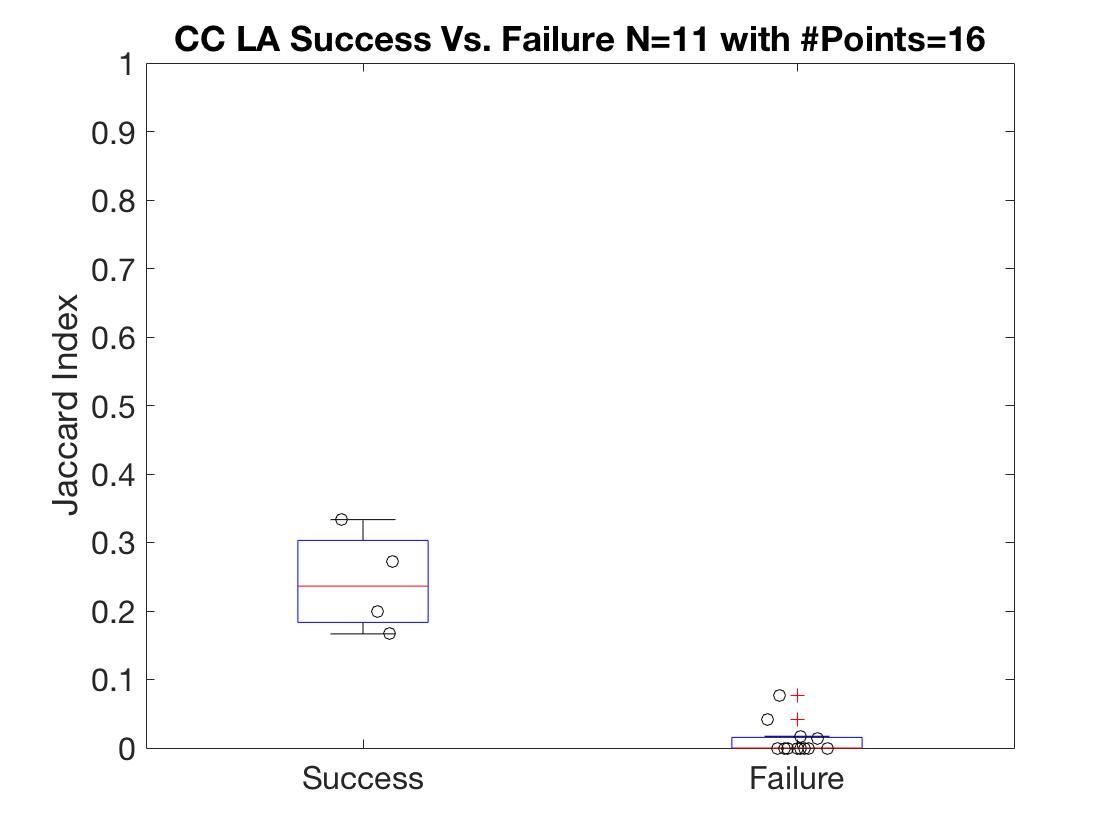
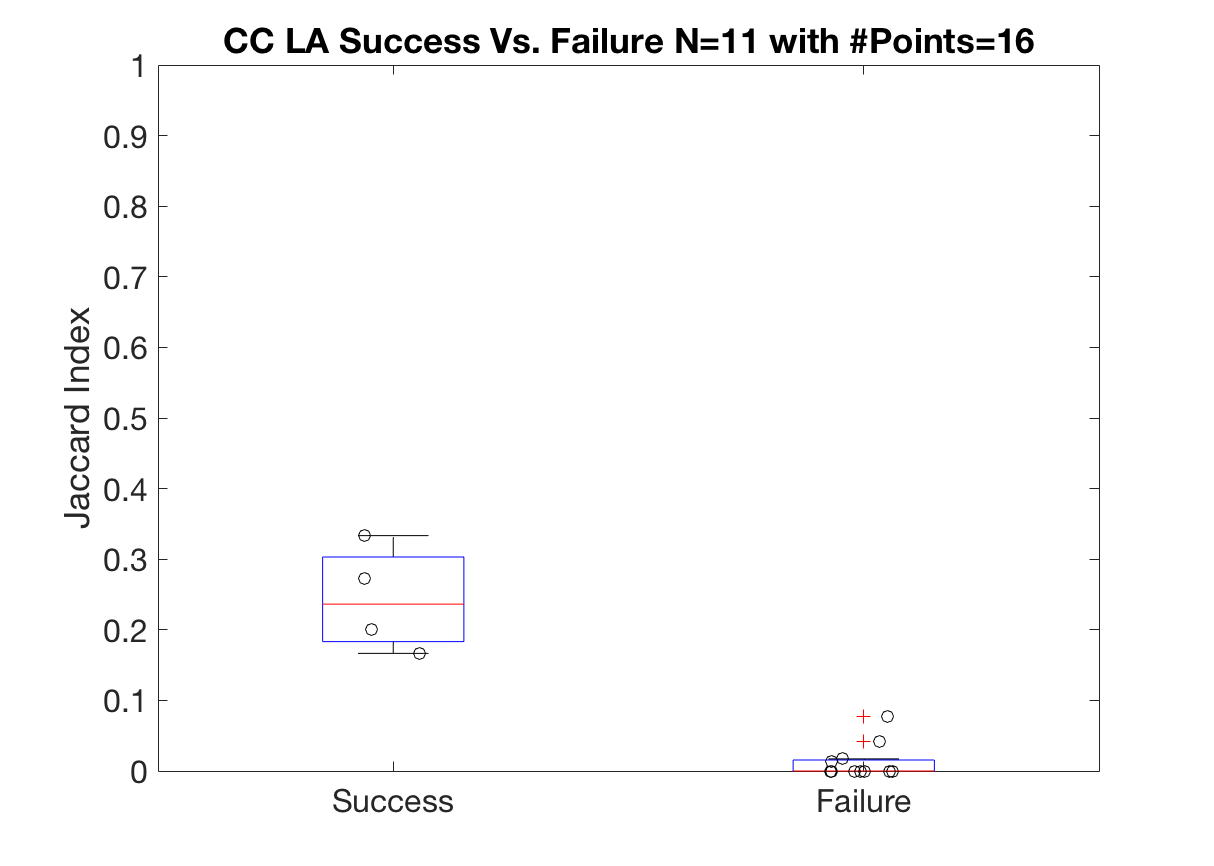
Adding figures for trying LA inclusion of spread electrodes. And running perturbation for LA03, LA09/10 ictal.

diff --git a/fragility_dataanalysis/plotpat_fragilitymapanddoas.m b/fragility_dataanalysis/plotpat_fragilitymapanddoas.m
@@ -124,7 +124,7 @@ perturbationTypes = ['C', 'R'];
 perturbationType = perturbationTypes(1);
 
 FONTSIZE = 16;
-metric = 'default';
+metric = 'jaccard';
 
 figDir = fullfile(rootDir, '/figures', 'fragilityStats', ...
     strcat(filterType), ...
@@ -524,6 +524,6 @@ for iGroup=1:length(patients)
     end
 end
 
-save('CCgridsearchictalfailuremats.mat', 'allfragmats', ...
+save('CCgridsearchictalsuccessmats_v2.mat', 'allfragmats', ...
     'allezlabels', 'allincludedlabels', ...
     'allspreadlabels', 'allresectionlabels', 'allseizuremarks', 'allstartstop');

diff --git a/fragility_dataanalysis/plotsuccessvsfailuredoa.m b/fragility_dataanalysis/plotsuccessvsfailuredoa.m
@@ -224,6 +224,10 @@ for pid=1:length(patients) % loop through each patient
     fginds = find(cellfun('length',regexp(included_labels,'FG')) == 1);
     weightnew_sum(fginds) = 0;
     
+    if contains(patient, 'LA01')
+        ezone_labels = union(ezone_labels, spread_labels);
+    end
+    
     % compute DOA
     [doas(pid), fragilesets] = compute_doa_threshold(weightnew_sum, ezone_labels, included_labels, threshold, metric);        
 
